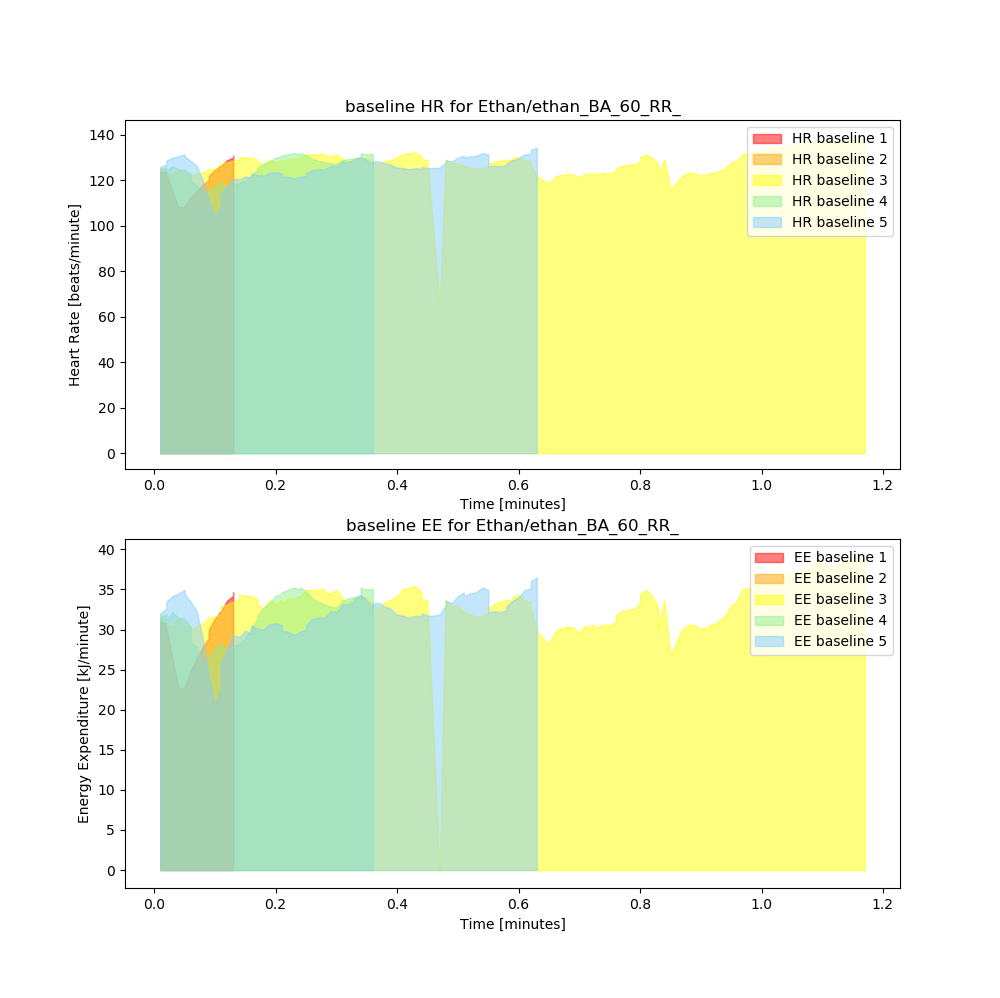
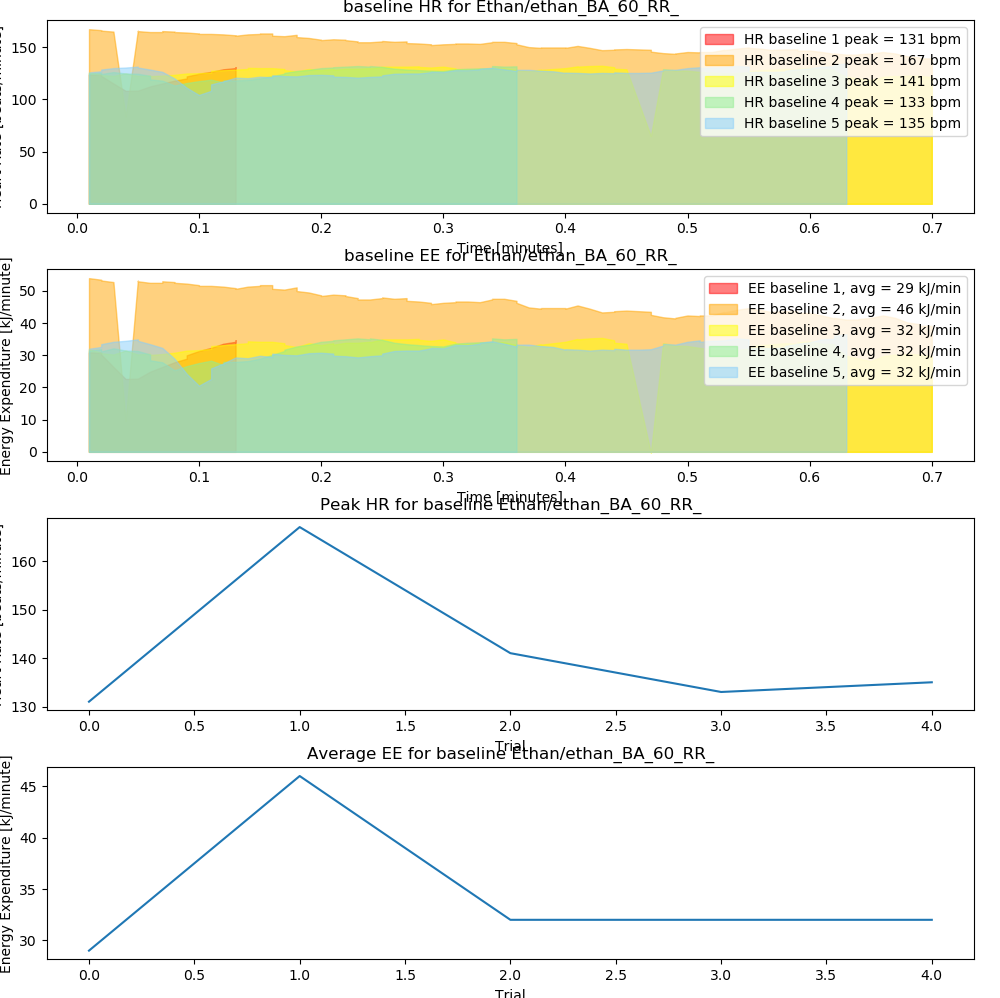
added avg EE and peak HR calcs + plots

diff --git a/EEfromRR.py b/EEfromRR.py
@@ -2,6 +2,7 @@ import numpy as np  # linear algebra
 import pandas as pd  # data processing, CSV file I/O (e.g. pd.read_csv)
 import csv  # better library compared to panda for less complicated text files
 import matplotlib.pyplot as plt
+from statistics import mean
 
 import os
 
@@ -83,11 +84,15 @@ class PolarUser:
     # trim HR at peak
     def trim_hr(self, t, hr):
         maxVal = max(hr)
-        print(maxVal)
         i = hr.index(maxVal)
+        # All trials took ~30s, so if the maxHR is hit too late or too early, just trim to a standard t=0.7s
+        if t[i] >= 0.7 or t[i] < 0.1:
+            print(t[i])
+            i = next(x for x, val in enumerate(t) if val > 0.7)
+            print(i)
         trimHR = hr[0:i]
         trimt = t[0:i]
-        return trimt, trimHR
+        return trimt, trimHR, maxVal
 
     # trim HR ~30s
 
@@ -101,57 +106,89 @@ class PolarUser:
         # convert RR to HR
         heart_rates = self.rrtohr(rr)
 
+        if filename == 'Ethan/ethan_BA_60_RR_2.txt':
+            with open('HR.txt', 'w') as f:
+                write = csv.writer(f)
+                # using csv.writer method from CSV package
+                write.writerow(heart_rates)
+
         # trim HR when it peaks, need to trim time as well since they're plotted together
-        t_trim, hr_trim = self.trim_hr(time, heart_rates)
+        t_trim, hr_trim, peak_hr = self.trim_hr(time, heart_rates)
 
         # convert HR to EE
         ee = self.hrtoee(hr_trim)
+        print(ee)
+        avg_ee = mean(ee)
 
-        return t_trim, rr, hr_trim, ee
+        return t_trim, rr, hr_trim, ee, round(avg_ee), round(peak_hr)
 
-    def process_files(self, type, filename_base_str, time_base_str, HR_trim_base_str, ee_base_str):
+    # def process_files(self, type, filename_base_str, time_base_str, HR_trim_base_str, ee_base_str, eeavg_base_str, hrpeak_base_str):
+    def process_files(self, type, filename_base_str):
         base_string = 'Ethan/ethan_BA_60_RR_'
         colour_list = ['red', 'orange', 'yellow', '#90EE90', '#87CEFA']
 
+        # keep track of peak HR and avg EE through trials
+        peakHR_list = []
+        avgEE_list = []
+
         # create a 2x2 subplot grid
-        fig, axs = plt.subplots(nrows=2, ncols=1, figsize=(10, 10))
+        fig, axs = plt.subplots(nrows=4, ncols=1, figsize=(10, 10))
+        fig.tight_layout(h_pad=2)
 
         # flatten the axs array to make it easier to iterate over
         axs = axs.flatten()
 
-        # Assign names
-        ax1 = axs[0]
-        ax2 = axs[1]
+        # Keep track of subplots
+        ax1 = axs[0]    # HR v time
+        ax2 = axs[1]    # EE v time
+        ax3 = axs[2]
+        ax4 = axs[3]
 
         for i in range(1, 6):
             file_path = f"{filename_base_str}{i}.txt"
-            t_str = f"{time_base_str}{i}"
-            hr_str = f"{HR_trim_base_str}{i}"
-            ee_str = f"{ee_base_str}{i}"
+            # t_str = f"{time_base_str}{i}"
+            # hr_str = f"{HR_trim_base_str}{i}"
+            # ee_str = f"{ee_base_str}{i}"
+            # avg_ee_str = f"{eeavg_base_str}{i}"
+            # peak_hr_str = f"{hrpeak_base_str}{i}"
 
             if os.path.isfile(file_path):
                 # Perform some action on the file
                 print(f"Processing file: {file_path}")
 
                 # Process RR interval data into energy expenditure (EE) using Keytel's formula
-                t_str, _, hr_str, ee_str = self.texttoee(file_path)
+                t_str, _, hr_str, ee_str, avg_ee_str, peak_hr_str = self.texttoee(file_path)
+                peakHR_list.append(peak_hr_str)
+                avgEE_list.append(avg_ee_str)
 
                 # Plot HR
-                ax1.fill_between(t_str, hr_str, color=colour_list[i - 1], alpha=0.5, label=f'HR {type} {i}')
+                ax1.fill_between(t_str, hr_str, color=colour_list[i - 1], alpha=0.5, label=f'HR {type} {i} peak = {peak_hr_str} bpm')
 
                 # Plot EE
-                ax2.fill_between(t_str, ee_str, color=colour_list[i - 1], alpha=0.5, label=f'EE {type} {i}')
-
+                ax2.fill_between(t_str, ee_str, color=colour_list[i - 1], alpha=0.5, label=f'EE {type} {i}, avg = {avg_ee_str} kJ/min')
 
             else:
                 print(f"File not found: {file_path}")
 
+        # Plot peak HR over trials
+        ax3.plot(peakHR_list)
+        ax3.set_xlabel('Trial')
+        ax3.set_ylabel('Heart Rate [beats/minute]')
+        ax3.set_title(f'Peak HR for {type} {base_string}')
+
+        # Plot avg EE over trials
+        ax4.plot(avgEE_list)
+        ax4.set_xlabel('Trial')
+        ax4.set_ylabel('Energy Expenditure [kJ/minute]')
+        ax4.set_title(f'Average EE for {type} {base_string}')
+
         # set the axis labels and title
         ax1.set_xlabel('Time [minutes]')
-        ax2.set_xlabel('Time [minutes]')
         ax1.set_ylabel('Heart Rate [beats/minute]')
-        ax2.set_ylabel('Energy Expenditure [kJ/minute]')
         ax1.set_title(f'{type} HR for {base_string}')
+
+        ax2.set_xlabel('Time [minutes]')
+        ax2.set_ylabel('Energy Expenditure [kJ/minute]')
         ax2.set_title(f'{type} EE for {base_string}')
 
         # add a legend to the plot
@@ -165,12 +202,13 @@ class PolarUser:
 
 
 # hack: instead of parsing time stamp, I could just use the RR interval as my time stamps
-# Create Polar user
+# Create Polar user and Process files
 ethan = PolarUser("Ethan", 22, 1, 80)  # name, age, gender [male=1], weight [kg]
-# Process files
-ethan.process_files('baseline', 'Ethan/ethan_BA_60_RR_', 'time_ethan_ee_', 'ethan_hr_trim_', 'ethan_ee_')
+ethan.process_files('baseline', 'Ethan/ethan_BA_60_RR_')
+
 
 '''
+ethan.process_files('baseline', 'Ethan/ethan_BA_60_RR_', 'time_ethan_ee_', 'ethan_hr_trim_', 'ethan_ee_', 'ethan_avg_ee', 'ethan_peak_hr')
 # Process RR interval data into energy expenditure (EE) using Keytel's formula
 time_ethan_ee1, _, _, ethan_ee1 = ethan.texttoee('Ethan/ethan_BA_60_RR_1.txt')
 time_ethan_ee2, _, _, ethan_ee2 = ethan.texttoee('Ethan/ethan_BA_60_RR_2.txt')
